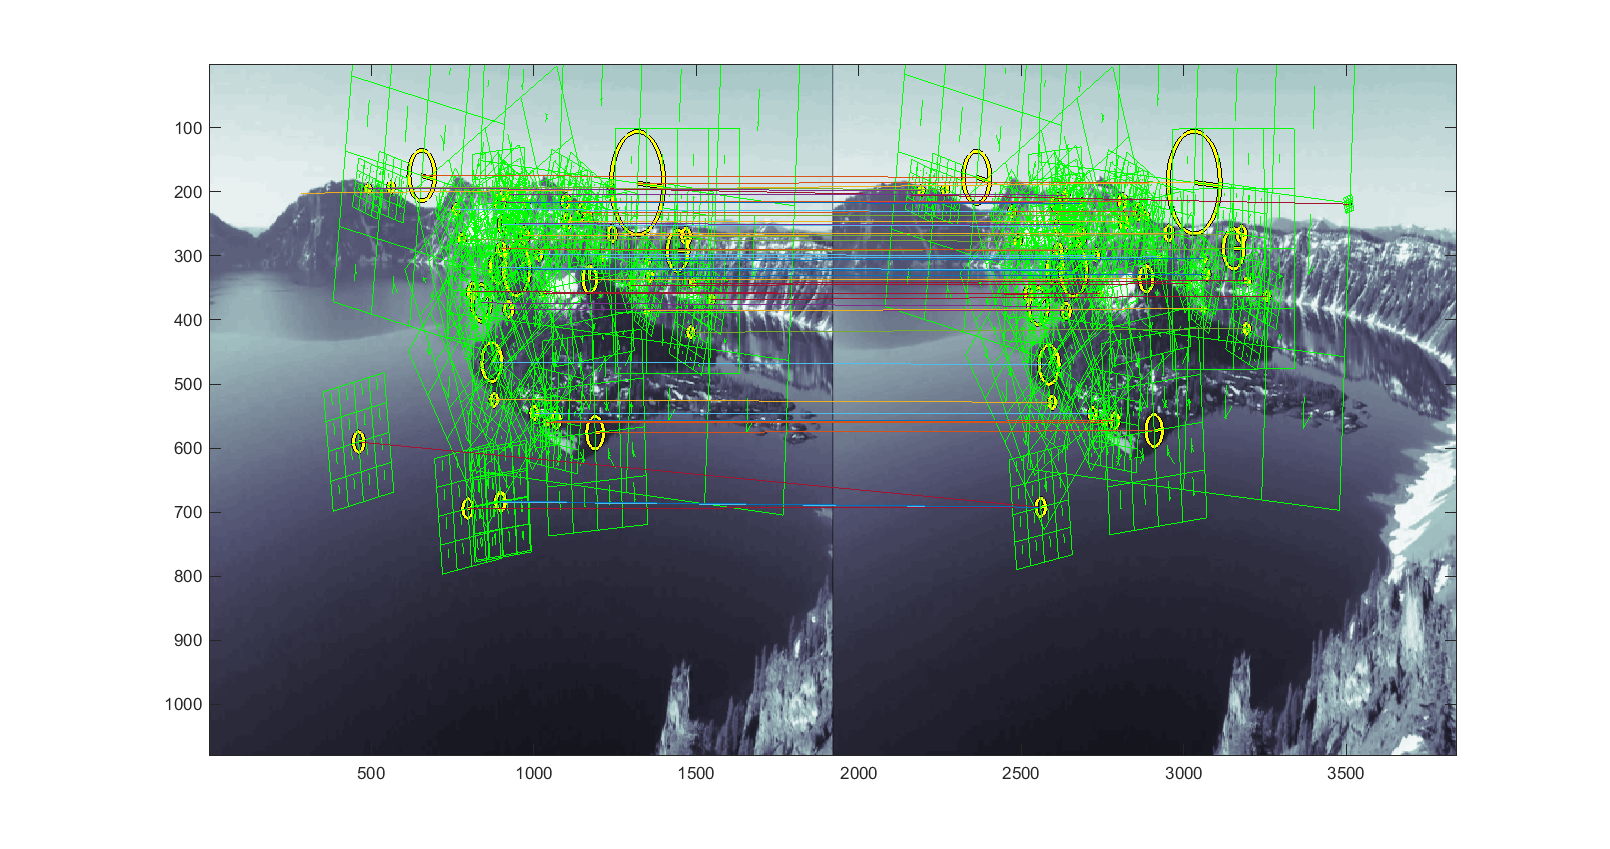
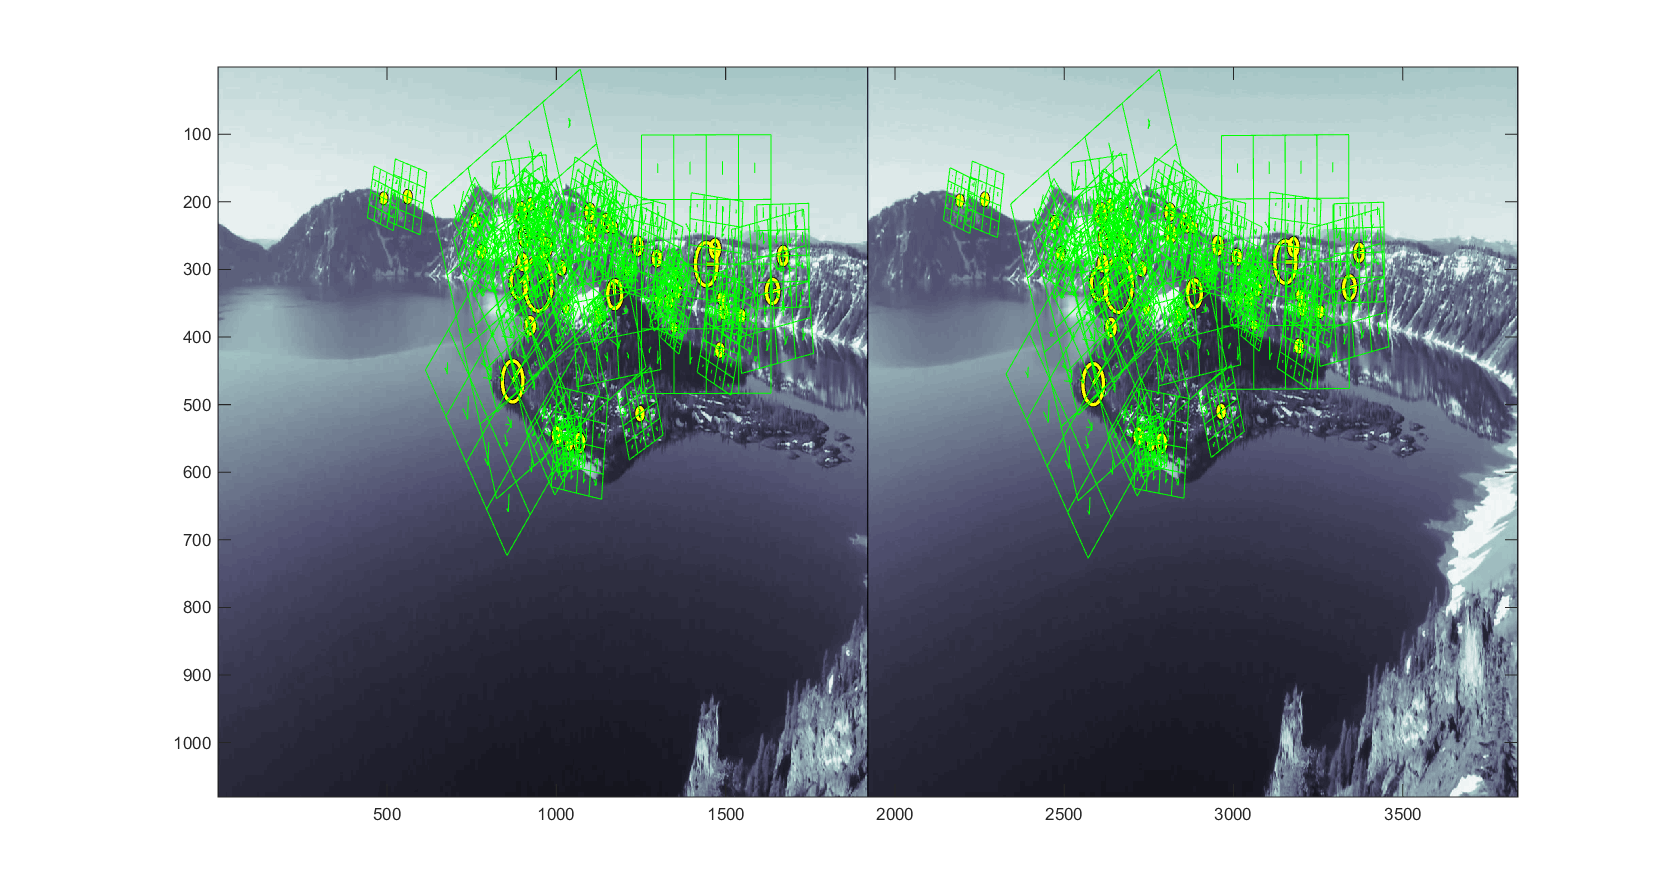
work

diff --git a/FinalProject/siftMatching.m b/FinalProject/siftMatching.m
@@ -4,6 +4,7 @@
 imageName = 'sfmPics1J2/shot';
 image1 = strcat(imageName,'4.jpg');
 image2 = strcat(imageName,'26.jpg');
+image1Mask = strcat(imageName,'4mask.png');
 
 %run SIFT on image1 and image2
 I1 = imread(image1);
@@ -13,16 +14,18 @@ I2 = imread(image2);
 I2 = single(rgb2gray(I2));
 [f2,d2] = vl_sift(I2);
 
+I1mask = imread(image1Mask);
+I1mask = single(rgb2gray(I1mask));
+
 %%
-%Make sure points where y<150 or y>700 is not included
-%   y<150 is the sky
-%   y>700 is only the lake
+%Make sure points I1mask > 128 are included
 f1a = zeros(size(f1)); d1a = zeros(size(d1)); 
 f2a = zeros(size(f2)); d2a = zeros(size(d2));
 index = 1;
 N1 = size(f1,2); N2 = size(f2,2);
 for i = 1:N1
-    if(f1(2,i)>150 && f1(2,i)<700)
+    rr = floor(f1(2,i)); cc = floor(f1(1,i));
+    if(I1mask(rr,cc) > 128) %in the mask region
         f1a(:,index)=f1(:,i);
         d1a(:,index)=d1(:,i);
         index = index + 1;

diff --git a/FinalProject/getPoints.m b/FinalProject/getPoints.m
@@ -193,6 +193,10 @@ yTL = [yTL1' yTL2' yTL3'];
 left2Dpts = [xTL;yTL];
 right2Dpts = [xTR;yTR];
 %%
+%to run after using SIFT to find the 2D points
+left2Dpts = image1Points; 
+right2Dpts = image2Points;
+%%
 allPts3D = triangulate(left2Dpts,right2Dpts,camL,camR);
 
 %%
@@ -204,8 +208,15 @@ YY = linspace(minY,maxY,20);
 [Xgrid,Ygrid,Zgrid] = meshgrid(XX,YY,0);
 
 figure
+plot3(allPts3D(1,:),allPts3D(2,:),-allPts3D(3,:),'ro');
+hold on
+plot3(Xgrid,Ygrid,Zgrid,'bx');
+
+%{
+figure
 plot3(allPts3D(1,1:17),allPts3D(2,1:17),-allPts3D(3,1:17),'ro'); %gives us top ridge
 hold on
 plot3(allPts3D(1,18:29),allPts3D(2,18:29),-allPts3D(3,18:29),'go'); %gives us lake ridge
 plot3(allPts3D(1,30:41),allPts3D(2,30:41),-allPts3D(3,30:41),'bo'); %gives us wizard island
 plot3(Xgrid,Ygrid,Zgrid,'bx');
+%}
